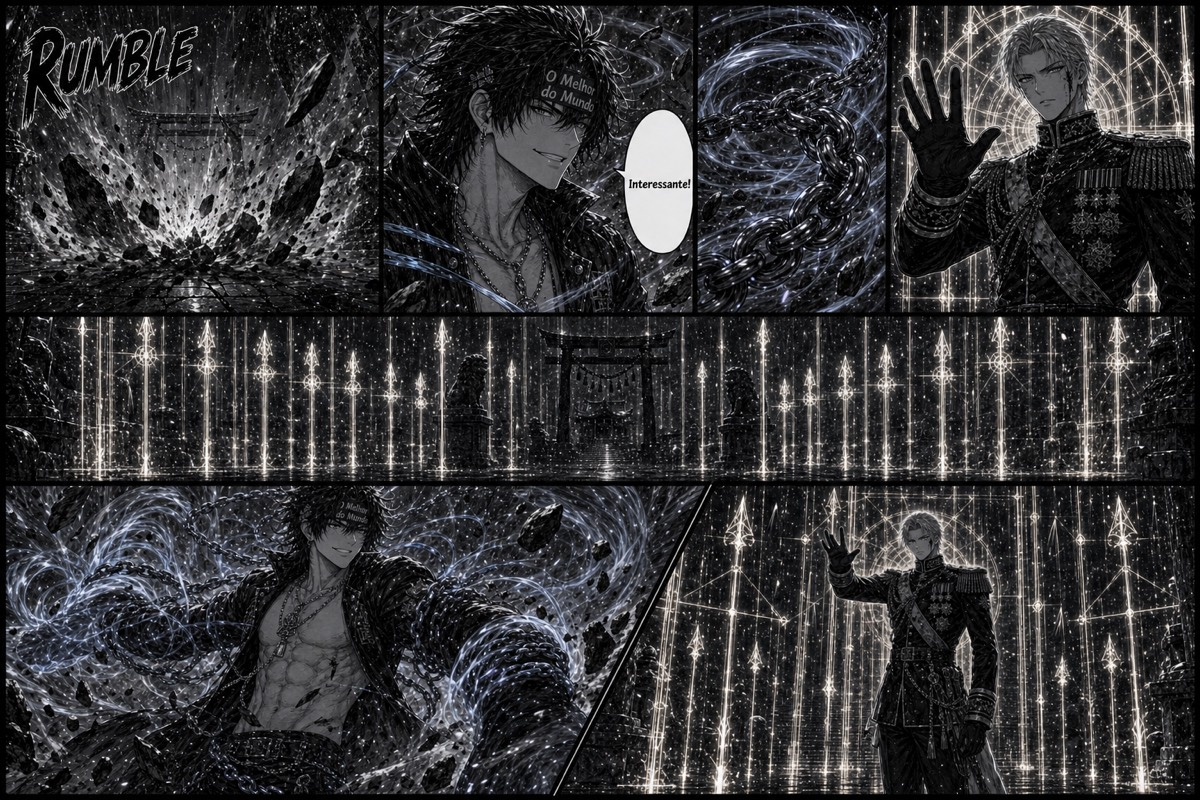
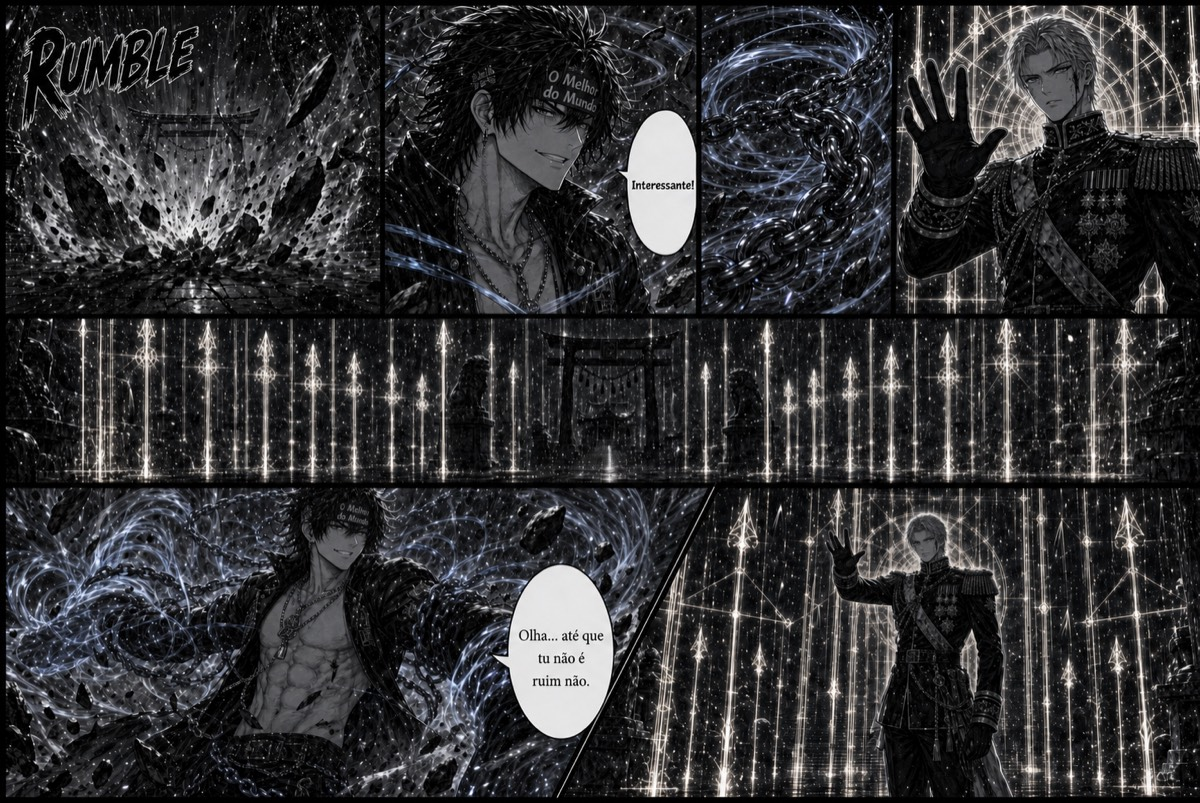
Connect HESIDIO premium Stripe checkout

diff --git a/index.html b/index.html
@@ -251,8 +251,8 @@
         <div class="premium-offer">
           <small>TEMPORADA I</small>
           <strong>R$9,90</strong>
-          <a class="button primary" href="https://discord.gg/cZb3ktnmc" data-hesidio-checkout data-fallback-url="https://discord.gg/cZb3ktnmc">ACESSAR TEMPORADA I</a>
-          <p data-checkout-message>Checkout Stripe preparado para conectar ao link de pagamento oficial.</p>
+          <a class="button primary" href="https://buy.stripe.com/bJe3cngII4bjcMdaJ5a7C02" data-hesidio-checkout data-checkout-url="https://buy.stripe.com/bJe3cngII4bjcMdaJ5a7C02" data-fallback-url="https://discord.gg/cZb3ktnmc" target="_blank" rel="noopener">ACESSAR TEMPORADA I</a>
+          <p data-checkout-message>Pagamento seguro processado pelo Stripe. Produto: price_1TZMJF0eQzdLGiHCBHIkJp9p.</p>
         </div>
       </div>
     </section>

diff --git a/manga/index.html b/manga/index.html
@@ -178,8 +178,8 @@
         <div class="premium-offer">
           <small>TEMPORADA I</small>
           <strong>R$9,90</strong>
-          <a class="social-button discord large" href="https://discord.gg/cZb3ktnmc" data-hesidio-checkout data-fallback-url="https://discord.gg/cZb3ktnmc">ACESSAR TEMPORADA I</a>
-          <p data-checkout-message>Checkout Stripe preparado para conectar ao link de pagamento oficial.</p>
+          <a class="social-button discord large" href="https://buy.stripe.com/bJe3cngII4bjcMdaJ5a7C02" data-hesidio-checkout data-checkout-url="https://buy.stripe.com/bJe3cngII4bjcMdaJ5a7C02" data-fallback-url="https://discord.gg/cZb3ktnmc" target="_blank" rel="noopener">ACESSAR TEMPORADA I</a>
+          <p data-checkout-message>Pagamento seguro processado pelo Stripe. Produto: price_1TZMJF0eQzdLGiHCBHIkJp9p.</p>
         </div>
       </div>
     </section>

diff --git a/manga/episodios/ep-10/index.html b/manga/episodios/ep-10/index.html
@@ -33,7 +33,7 @@
       <h1>Os registros seguintes foram selados.</h1>
       <p>EP 10 ainda não foi aberto. A liberação está prevista para 25/07/2026. HESIDIO será liberado em ritmo semanal para preservar o mistério da Temporada I.</p>
       <div class="preview-strip"><img src="/public/manga/episodios/ep-10/images/001.jpg" alt="Prévia restrita HESIDIO" draggable="false"><img src="/public/manga/episodios/ep-10/images/002.jpg" alt="Prévia restrita HESIDIO" draggable="false"><img src="/public/manga/episodios/ep-10/images/003.jpg" alt="Prévia restrita HESIDIO" draggable="false"></div>
-      <a class="reader-button" href="/manga/#temporada-premium">Acessar Temporada I - R$9,90</a>
+      <a class="reader-button" href="https://buy.stripe.com/bJe3cngII4bjcMdaJ5a7C02" target="_blank" rel="noopener" data-stripe-price="price_1TZMJF0eQzdLGiHCBHIkJp9p">Acessar Temporada I - R$9,90</a>
     </section>
   </main>
   <script>

diff --git a/manga/episodios/ep-11/index.html b/manga/episodios/ep-11/index.html
@@ -33,7 +33,7 @@
       <h1>Os registros seguintes foram selados.</h1>
       <p>EP 11 ainda não foi aberto. A liberação está prevista para 01/08/2026. HESIDIO será liberado em ritmo semanal para preservar o mistério da Temporada I.</p>
       
-      <a class="reader-button" href="/manga/#temporada-premium">Acessar Temporada I - R$9,90</a>
+      <a class="reader-button" href="https://buy.stripe.com/bJe3cngII4bjcMdaJ5a7C02" target="_blank" rel="noopener" data-stripe-price="price_1TZMJF0eQzdLGiHCBHIkJp9p">Acessar Temporada I - R$9,90</a>
     </section>
   </main>
   <script>

diff --git a/manga/episodios/ep-6/index.html b/manga/episodios/ep-6/index.html
@@ -33,7 +33,7 @@
       <h1>Os registros seguintes foram selados.</h1>
       <p>EP 06 ainda não foi aberto. A liberação está prevista para 27/06/2026. HESIDIO será liberado em ritmo semanal para preservar o mistério da Temporada I.</p>
       <div class="preview-strip"><img src="/public/manga/episodios/ep-6/images/001.jpg" alt="Prévia restrita HESIDIO" draggable="false"><img src="/public/manga/episodios/ep-6/images/002.jpg" alt="Prévia restrita HESIDIO" draggable="false"><img src="/public/manga/episodios/ep-6/images/003.jpg" alt="Prévia restrita HESIDIO" draggable="false"></div>
-      <a class="reader-button" href="/manga/#temporada-premium">Acessar Temporada I - R$9,90</a>
+      <a class="reader-button" href="https://buy.stripe.com/bJe3cngII4bjcMdaJ5a7C02" target="_blank" rel="noopener" data-stripe-price="price_1TZMJF0eQzdLGiHCBHIkJp9p">Acessar Temporada I - R$9,90</a>
     </section>
   </main>
   <script>

diff --git a/manga/episodios/ep-7/index.html b/manga/episodios/ep-7/index.html
@@ -33,7 +33,7 @@
       <h1>Os registros seguintes foram selados.</h1>
       <p>EP 07 ainda não foi aberto. A liberação está prevista para 04/07/2026. HESIDIO será liberado em ritmo semanal para preservar o mistério da Temporada I.</p>
       <div class="preview-strip"><img src="/public/manga/episodios/ep-7/images/001.jpg" alt="Prévia restrita HESIDIO" draggable="false"><img src="/public/manga/episodios/ep-7/images/002.jpg" alt="Prévia restrita HESIDIO" draggable="false"><img src="/public/manga/episodios/ep-7/images/003.jpg" alt="Prévia restrita HESIDIO" draggable="false"></div>
-      <a class="reader-button" href="/manga/#temporada-premium">Acessar Temporada I - R$9,90</a>
+      <a class="reader-button" href="https://buy.stripe.com/bJe3cngII4bjcMdaJ5a7C02" target="_blank" rel="noopener" data-stripe-price="price_1TZMJF0eQzdLGiHCBHIkJp9p">Acessar Temporada I - R$9,90</a>
     </section>
   </main>
   <script>

diff --git a/manga/episodios/ep-8/index.html b/manga/episodios/ep-8/index.html
@@ -33,7 +33,7 @@
       <h1>Os registros seguintes foram selados.</h1>
       <p>EP 08 ainda não foi aberto. A liberação está prevista para 11/07/2026. HESIDIO será liberado em ritmo semanal para preservar o mistério da Temporada I.</p>
       <div class="preview-strip"><img src="/public/manga/episodios/ep-8/images/001.jpg" alt="Prévia restrita HESIDIO" draggable="false"><img src="/public/manga/episodios/ep-8/images/002.jpg" alt="Prévia restrita HESIDIO" draggable="false"><img src="/public/manga/episodios/ep-8/images/003.jpg" alt="Prévia restrita HESIDIO" draggable="false"></div>
-      <a class="reader-button" href="/manga/#temporada-premium">Acessar Temporada I - R$9,90</a>
+      <a class="reader-button" href="https://buy.stripe.com/bJe3cngII4bjcMdaJ5a7C02" target="_blank" rel="noopener" data-stripe-price="price_1TZMJF0eQzdLGiHCBHIkJp9p">Acessar Temporada I - R$9,90</a>
     </section>
   </main>
   <script>

diff --git a/manga/episodios/ep-9/index.html b/manga/episodios/ep-9/index.html
@@ -33,7 +33,7 @@
       <h1>Os registros seguintes foram selados.</h1>
       <p>EP 09 ainda não foi aberto. A liberação está prevista para 18/07/2026. HESIDIO será liberado em ritmo semanal para preservar o mistério da Temporada I.</p>
       <div class="preview-strip"><img src="/public/manga/episodios/ep-9/images/001.jpg" alt="Prévia restrita HESIDIO" draggable="false"><img src="/public/manga/episodios/ep-9/images/002.jpg" alt="Prévia restrita HESIDIO" draggable="false"><img src="/public/manga/episodios/ep-9/images/003.jpg" alt="Prévia restrita HESIDIO" draggable="false"></div>
-      <a class="reader-button" href="/manga/#temporada-premium">Acessar Temporada I - R$9,90</a>
+      <a class="reader-button" href="https://buy.stripe.com/bJe3cngII4bjcMdaJ5a7C02" target="_blank" rel="noopener" data-stripe-price="price_1TZMJF0eQzdLGiHCBHIkJp9p">Acessar Temporada I - R$9,90</a>
     </section>
   </main>
   <script>